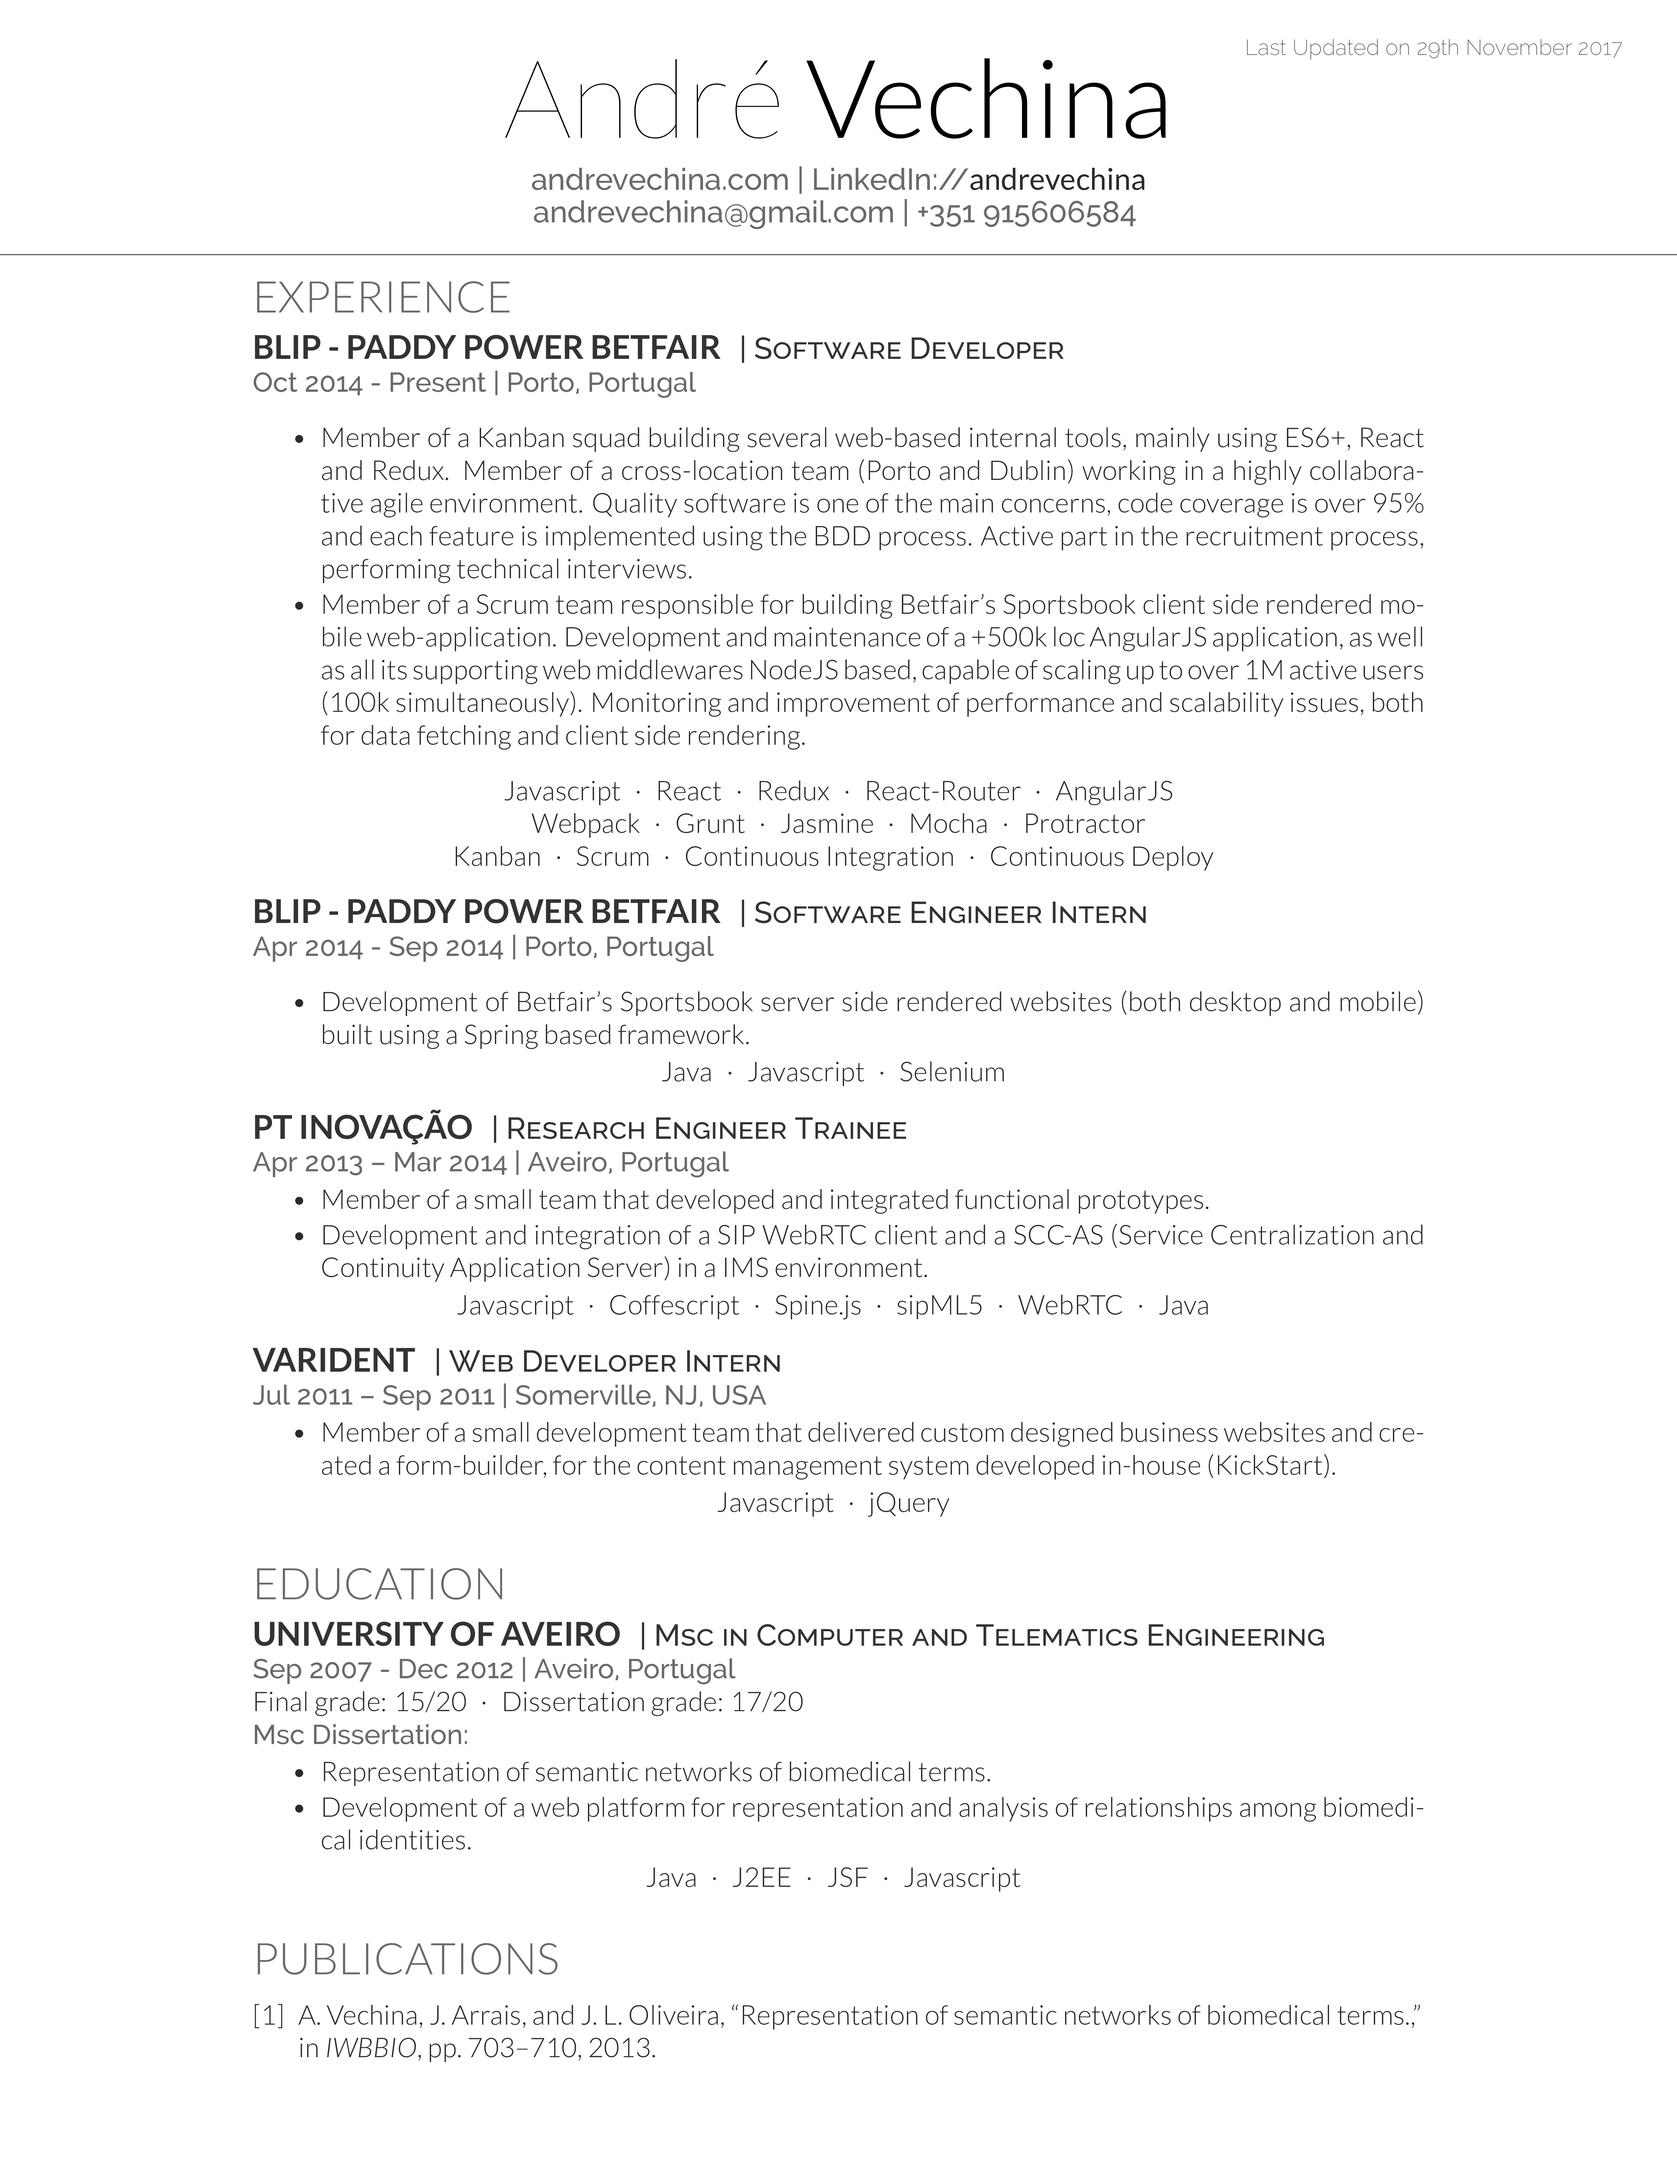
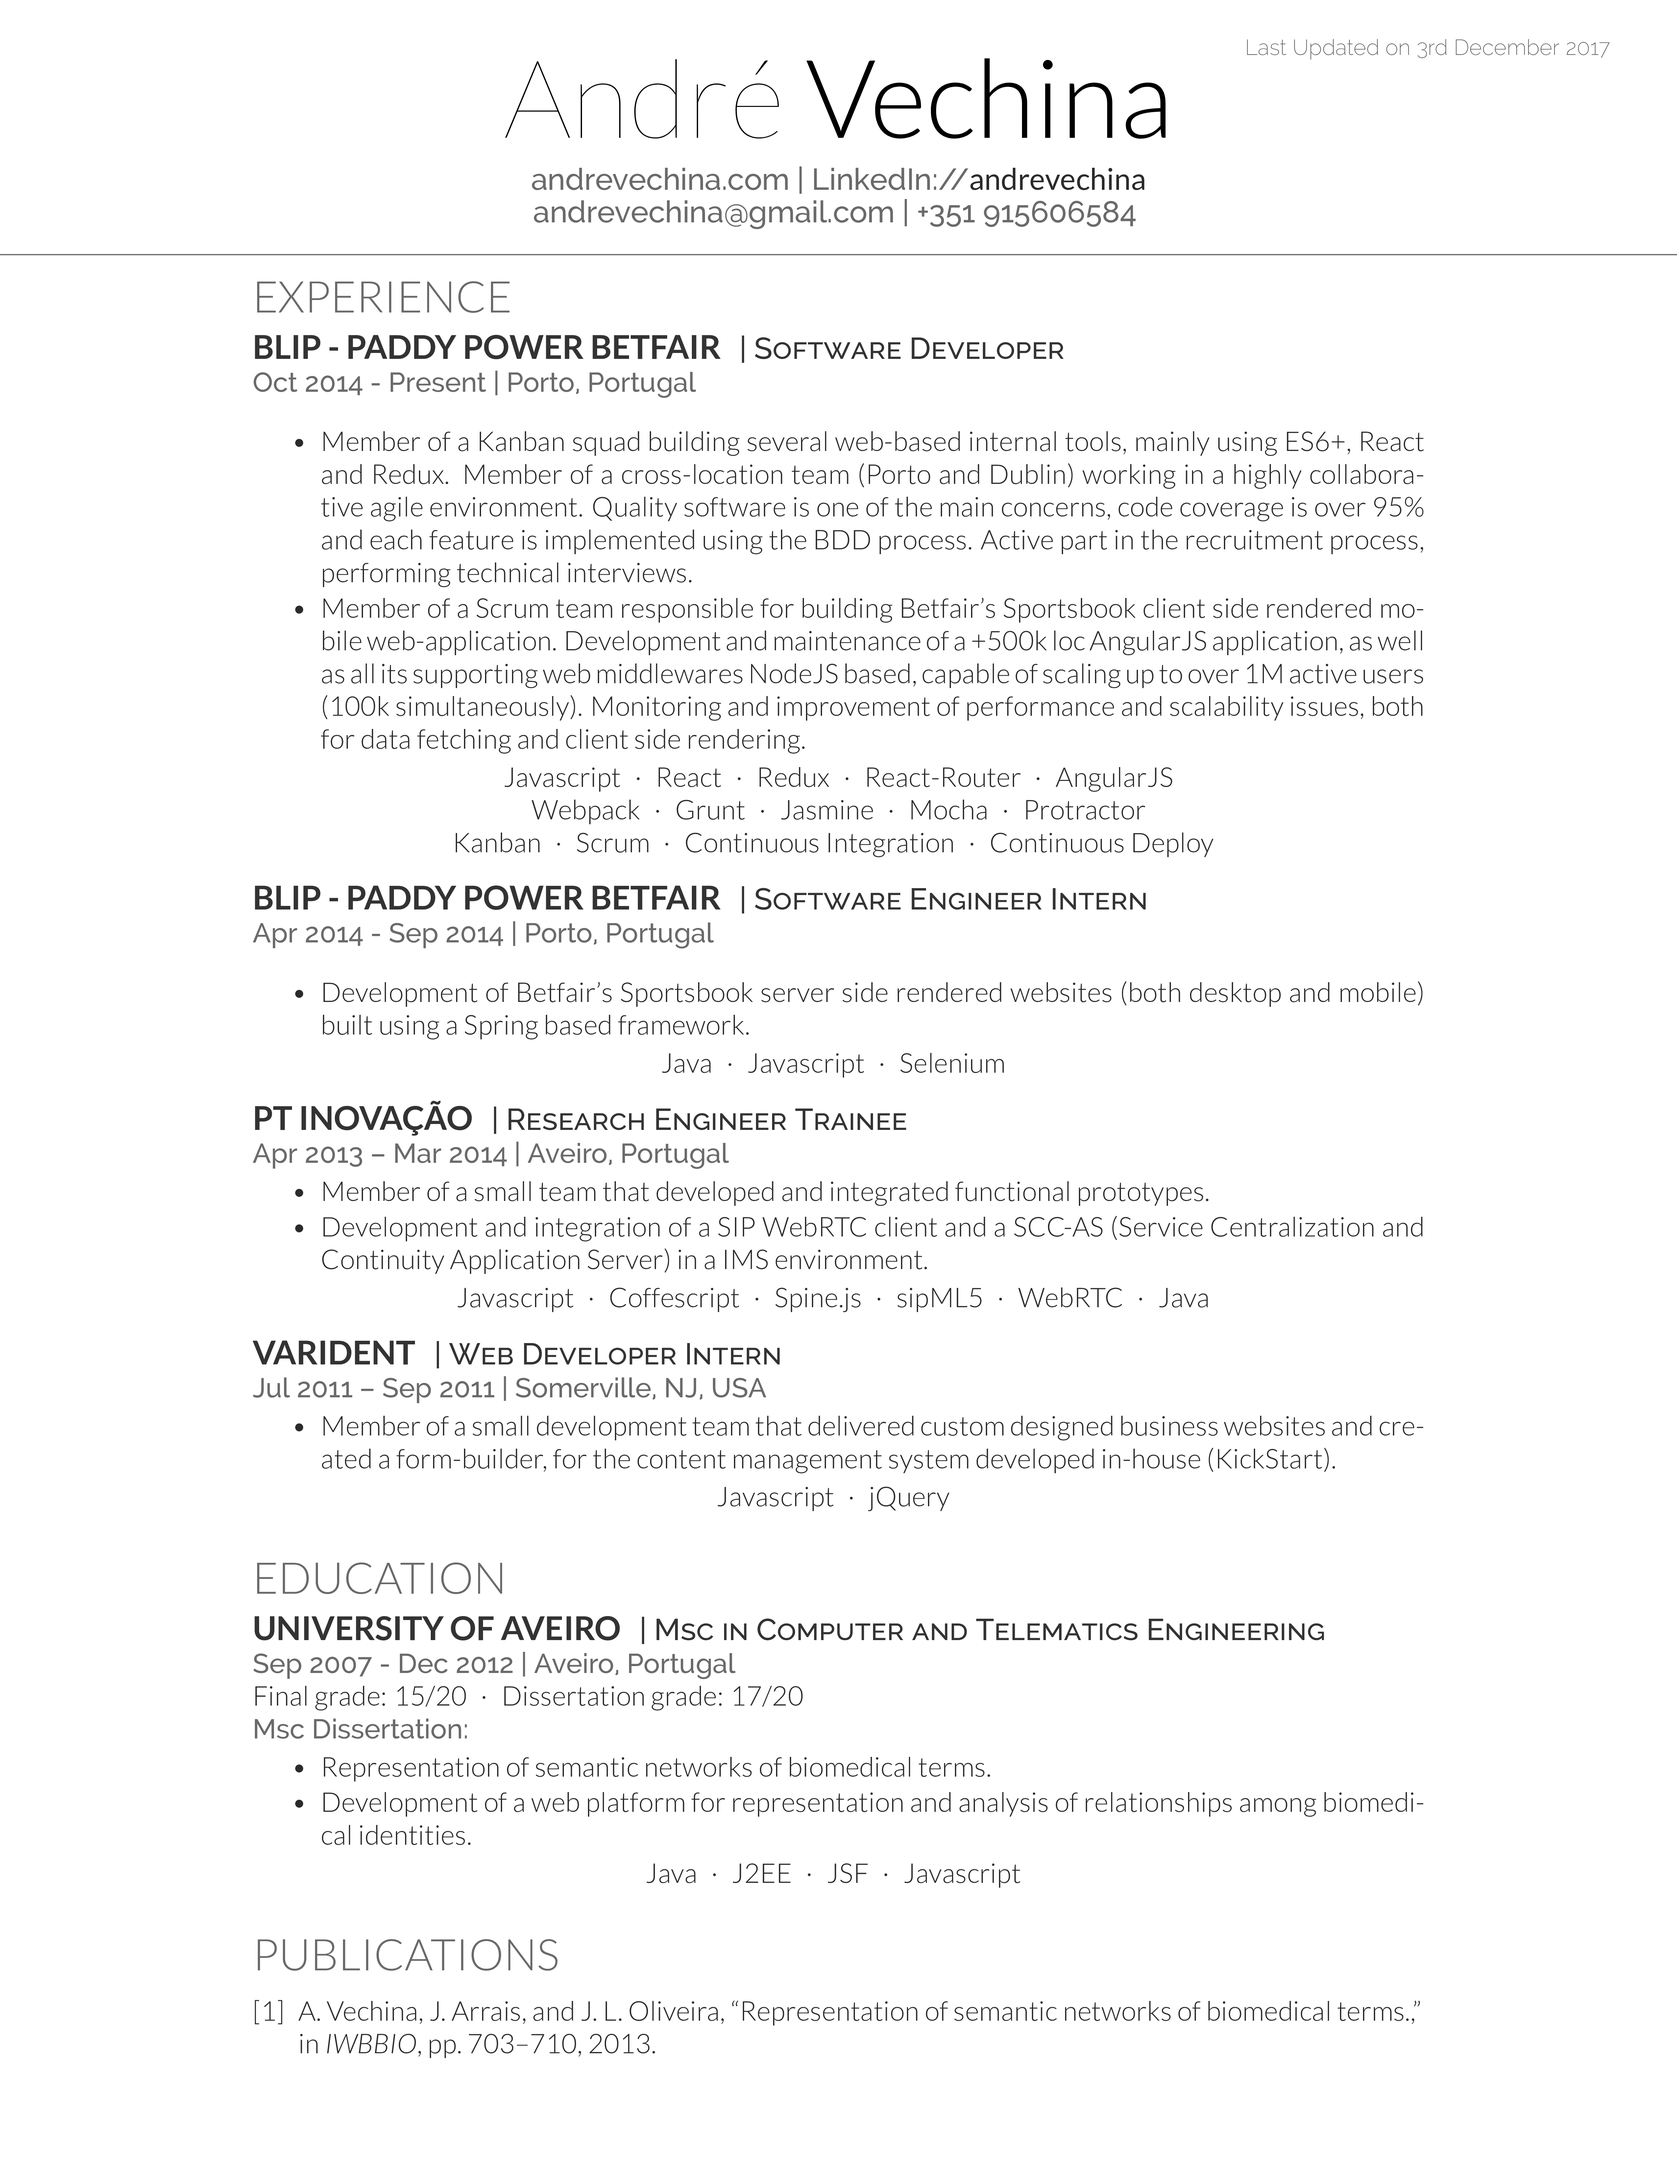
add html output

diff --git a/andre-vechina-resume.html b/andre-vechina-resume.html
@@ -1,0 +1,167 @@
+<?xml version="1.0" encoding="utf-8" ?> 
+<!DOCTYPE html PUBLIC "-//W3C//DTD XHTML 1.0 Transitional//EN" 
+  "http://www.w3.org/TR/xhtml1/DTD/xhtml1-transitional.dtd">  
+<!--http://www.w3.org/TR/xhtml1/DTD/xhtml1-transitional.dtd-->  
+<html xmlns="http://www.w3.org/1999/xhtml"  
+> 
+<head><title></title> 
+<meta http-equiv="Content-Type" content="text/html; charset=utf-8" /> 
+<meta name="generator" content="TeX4ht (http://www.tug.org/tex4ht/)" /> 
+<meta name="originator" content="TeX4ht (http://www.tug.org/tex4ht/)" /> 
+<!-- xhtml,charset=utf-8,html,htex4ht --> 
+<meta name="src" content="andre-vechina-resume.tex" /> 
+<link rel="stylesheet" type="text/css" href="andre-vechina-resume.css" /> 
+</head><body 
+>
+</p><!--l. 15--><p class="noindent" ><span 
+class="rm-lmr-17x-x-231">Andr</span><span 
+class="rm-lmr-17x-x-231">é Vechina </span><br />
+<a 
+href="http://andrevechina.com" ><span 
+class="rm-lmr-12x-x-91">andrevechina.com</span></a> <span 
+class="rm-lmr-12x-x-91">— LinkedIn://</span><a 
+href="https://www.linkedin.com/in/andrevechina" ><span 
+class="rm-lmbx-12x-x-91">andrevechina</span></a><br />
+<a 
+href="mailto:andrevechina@gmail.com" ><span 
+class="rm-lmr-12x-x-91">andrevechina@gmail.com</span></a> <span 
+class="rm-lmr-12x-x-91">— +351 915606584 </span>
+_____________________________________________________________________________________________________________________
+<a 
+ id="x1-2r1"></a>
+</p>
+<h3 class="sectionHead"><span class="titlemark">1   </span> <a 
+ id="x1-10001"></a>Experience</h3>
+<!--l. 31--><p class="noindent" ><span 
+class="rm-lmbx-12">BLIP - PADDY POWER BETFAIR   </span><span 
+class="rm-lmr-12x-x-91">— Software Developer </span><br />
+</p><!--l. 33--><p class="noindent" >Oct 2014 - Present — Porto, Portugal<br />
+ </p>
+     <ul class="itemize1">
+     <li class="itemize">Member of a Kanban squad building several web-based internal tools, mainly using ES6+,
+     React and Redux. Member of a cross-location team (Porto and Dublin) working in a highly
+     collaborative agile environment. Quality software is one of the main concerns, code coverage
+     is over 95% and each feature is implemented using the BDD process. Active part in the
+     recruitment process, performing technical interviews.
+     </li>
+     <li class="itemize">Member of a Scrum team responsible for building Betfair’s Sportsbook client side rendered
+     mobile web-application. Development and maintenance of a +500k loc AngularJS application,
+     as well as all its supporting web middlewares NodeJS based, capable of scaling up to over
+     1M active users (100k simultaneously). Monitoring and improvement of performance and
+     scalability issues, both for data fetching and client side rendering. </li></ul>
+<!--l. 47--><p class="noindent" >Javascript  <span 
+class="lmsy-10">⋅ </span>React  <span 
+class="lmsy-10">⋅ </span>Redux  <span 
+class="lmsy-10">⋅ </span>React-Router  <span 
+class="lmsy-10">⋅ </span>AngularJS<br />
+</p><!--l. 54--><p class="noindent" >Webpack  <span 
+class="lmsy-10">⋅ </span>Grunt  <span 
+class="lmsy-10">⋅ </span>Jasmine  <span 
+class="lmsy-10">⋅ </span>Mocha  <span 
+class="lmsy-10">⋅ </span>Protractor<br />
+Kanban  <span 
+class="lmsy-10">⋅ </span>Scrum  <span 
+class="lmsy-10">⋅ </span>Continuous Integration  <span 
+class="lmsy-10">⋅ </span>Continuous Deploy
+<span 
+class="rm-lmbx-12">BLIP - PADDY POWER BETFAIR   </span><span 
+class="rm-lmr-12x-x-91">— Software Engineer Intern</span><br />
+</p><!--l. 70--><p class="noindent" >Apr 2014 - Sep 2014 — Porto, Portugal<br />
+ </p>
+     <ul class="itemize1">
+     <li class="itemize">Development of Betfair’s Sportsbook server side rendered websites (both desktop and mobile)
+     built using a Spring based framework. </li></ul>
+<!--l. 77--><p class="noindent" >Java  <span 
+class="lmsy-10">⋅ </span>Javascript  <span 
+class="lmsy-10">⋅ </span>Selenium
+</p><!--l. 83--><p class="noindent" ><span 
+class="rm-lmbx-12">PT INOVA</span><span 
+class="rm-lmbx-12">Ç</span><span 
+class="rm-lmbx-12">ÃO   </span><span 
+class="rm-lmr-12x-x-91">— Research Engineer Trainee</span><br />
+</p><!--l. 85--><p class="noindent" >Apr 2013 – Mar 2014 — Aveiro, Portugal<br />
+ </p>
+     <ul class="itemize1">
+     <li class="itemize">Member of a small team that developed and integrated functional prototypes.
+     </li>
+     <li class="itemize">Development and integration of a SIP WebRTC client and a SCC-AS (Service Centralization
+     and Continuity Application Server) in a IMS environment. </li></ul>
+<!--l. 93--><p class="noindent" >Javascript  <span 
+class="lmsy-10">⋅ </span>Coﬀescript  <span 
+class="lmsy-10">⋅ </span>Spine.js  <span 
+class="lmsy-10">⋅ </span>sipML5  <span 
+class="lmsy-10">⋅ </span>WebRTC  <span 
+class="lmsy-10">⋅ </span>Java
+</p><!--l. 102--><p class="noindent" ><span 
+class="rm-lmbx-12">VARIDENT   </span><span 
+class="rm-lmr-12x-x-91">— Web Developer Intern</span><br />
+</p><!--l. 104--><p class="noindent" >Jul 2011 – Sep 2011 — Somerville, NJ, USA<br />
+ </p>
+     <ul class="itemize1">
+     <li class="itemize">Member of a small development team that delivered custom designed business websites and
+     created a form-builder, for the content management system developed in-house (KickStart).
+     </li></ul>
+<!--l. 110--><p class="noindent" >Javascript  <span 
+class="lmsy-10">⋅ </span>jQuery
+<a 
+ id="x1-1001r1"></a>
+</p>
+                                                                                  
+                                                                                  
+<h3 class="sectionHead"><span class="titlemark">2   </span> <a 
+ id="x1-20002"></a>Education</h3>
+<!--l. 120--><p class="noindent" ><span 
+class="rm-lmbx-12">UNIVERSITY OF AVEIRO   </span><span 
+class="rm-lmr-12x-x-91">— Msc in Computer and Telematics Engineering</span><br />
+</p><!--l. 122--><p class="noindent" >Sep 2007 - Dec 2012 — Aveiro, Portugal<br />
+</p><!--l. 123--><p class="noindent" >Final grade: 15/20  <span 
+class="lmsy-10">⋅ </span>Dissertation grade: 17/20<br />
+Msc Dissertation:<br />
+ </p>
+     <ul class="itemize1">
+     <li class="itemize">Representation of semantic networks of biomedical terms.
+     </li>
+     <li class="itemize">Development  of  a  web  platform  for  representation  and  analysis  of  relationships  among
+     biomedical identities. </li></ul>
+<!--l. 134--><p class="noindent" >Java  <span 
+class="lmsy-10">⋅ </span>J2EE  <span 
+class="lmsy-10">⋅ </span>JSF  <span 
+class="lmsy-10">⋅ </span>Javascript
+<a 
+ id="x1-2001r2"></a>
+</p>
+<h3 class="sectionHead"><span class="titlemark">3   </span> <a 
+ id="x1-30003"></a>Publications</h3>
+<a 
+ id="Q1-1-4"></a>
+<h3 class="likesectionHead"><a 
+ id="x1-40003"></a></h3>
+   <div class="thebibliography">
+   <p class="bibitem" ><span class="biblabel">
+ [1]<span class="bibsp">   </span></span>
+   <a 
+ id="Xvechina2013representation"></a>A. Vechina,
+   J. Arrais,
+   and
+   J. L.
+   Oliveira,
+   “Representation
+   of
+   semantic
+   networks
+   of
+   biomedical
+   terms.,”
+   in
+   <span 
+class="rm-lmri-10">IWBBIO</span>,
+   pp. 703–710,
+   2013.
+</p>
+   </div>
+ 
+</body></html> 
+
+                                                                                  
+
+

diff --git a/andre-vechina-resume.tex b/andre-vechina-resume.tex
@@ -43,20 +43,21 @@ Member of a Scrum team responsible for building Betfair's Sportsbook client side
 Development and maintenance of a +500k loc AngularJS application, as well as all its supporting web middlewares NodeJS based, capable of scaling up to over 1M active users (100k simultaneously).
 Monitoring and improvement of performance and scalability issues, both for data fetching and client side rendering.
 \end{tightemize}
-\vspace{\topsep} % Hacky fix for awkward extra vertical space
 \centering{
     Javascript \tdot
     React \tdot
     Redux \tdot
     React-Router \tdot
     AngularJS
-    \\
+}\\
+\centering{
     Webpack \tdot
     Grunt \tdot
     Jasmine \tdot
     Mocha \tdot
     Protractor
-    \\
+}\\
+\centering{
     Kanban \tdot
     Scrum \tdot
     Continuous Integration \tdot
